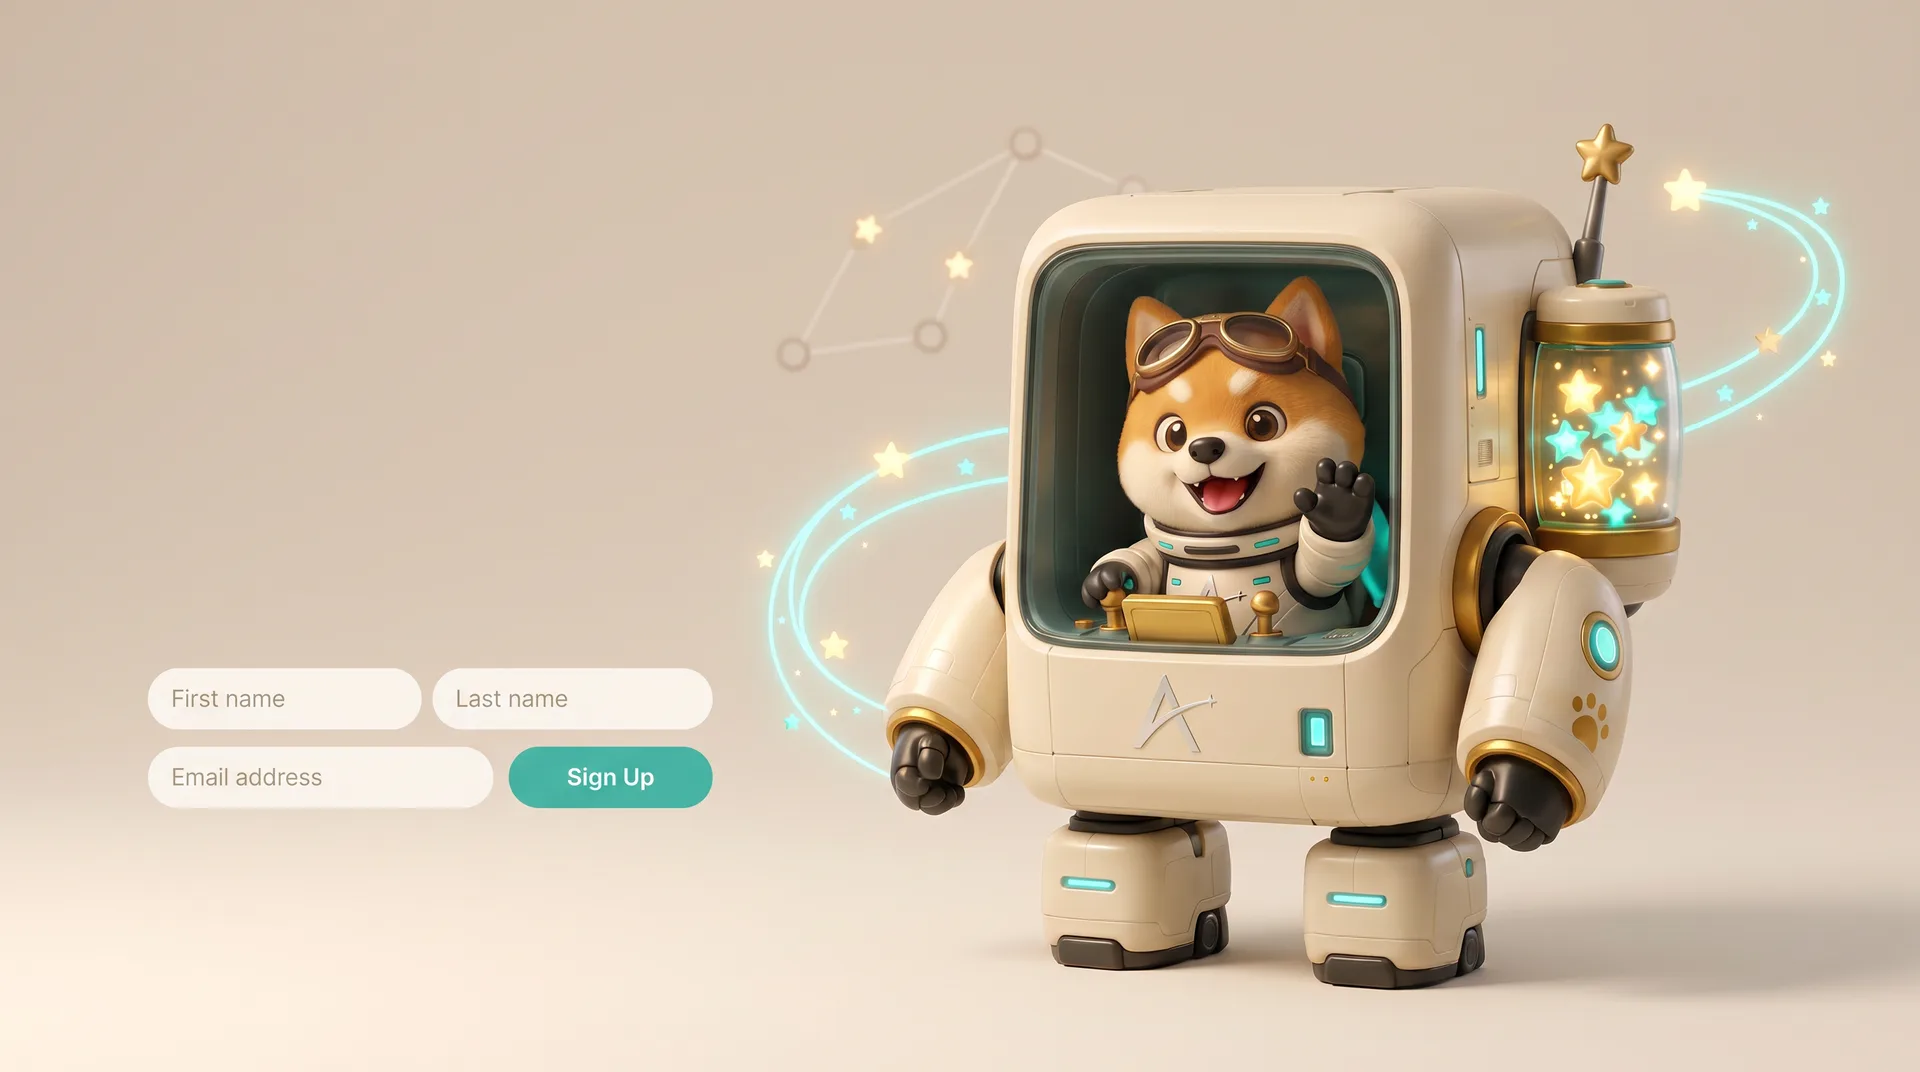
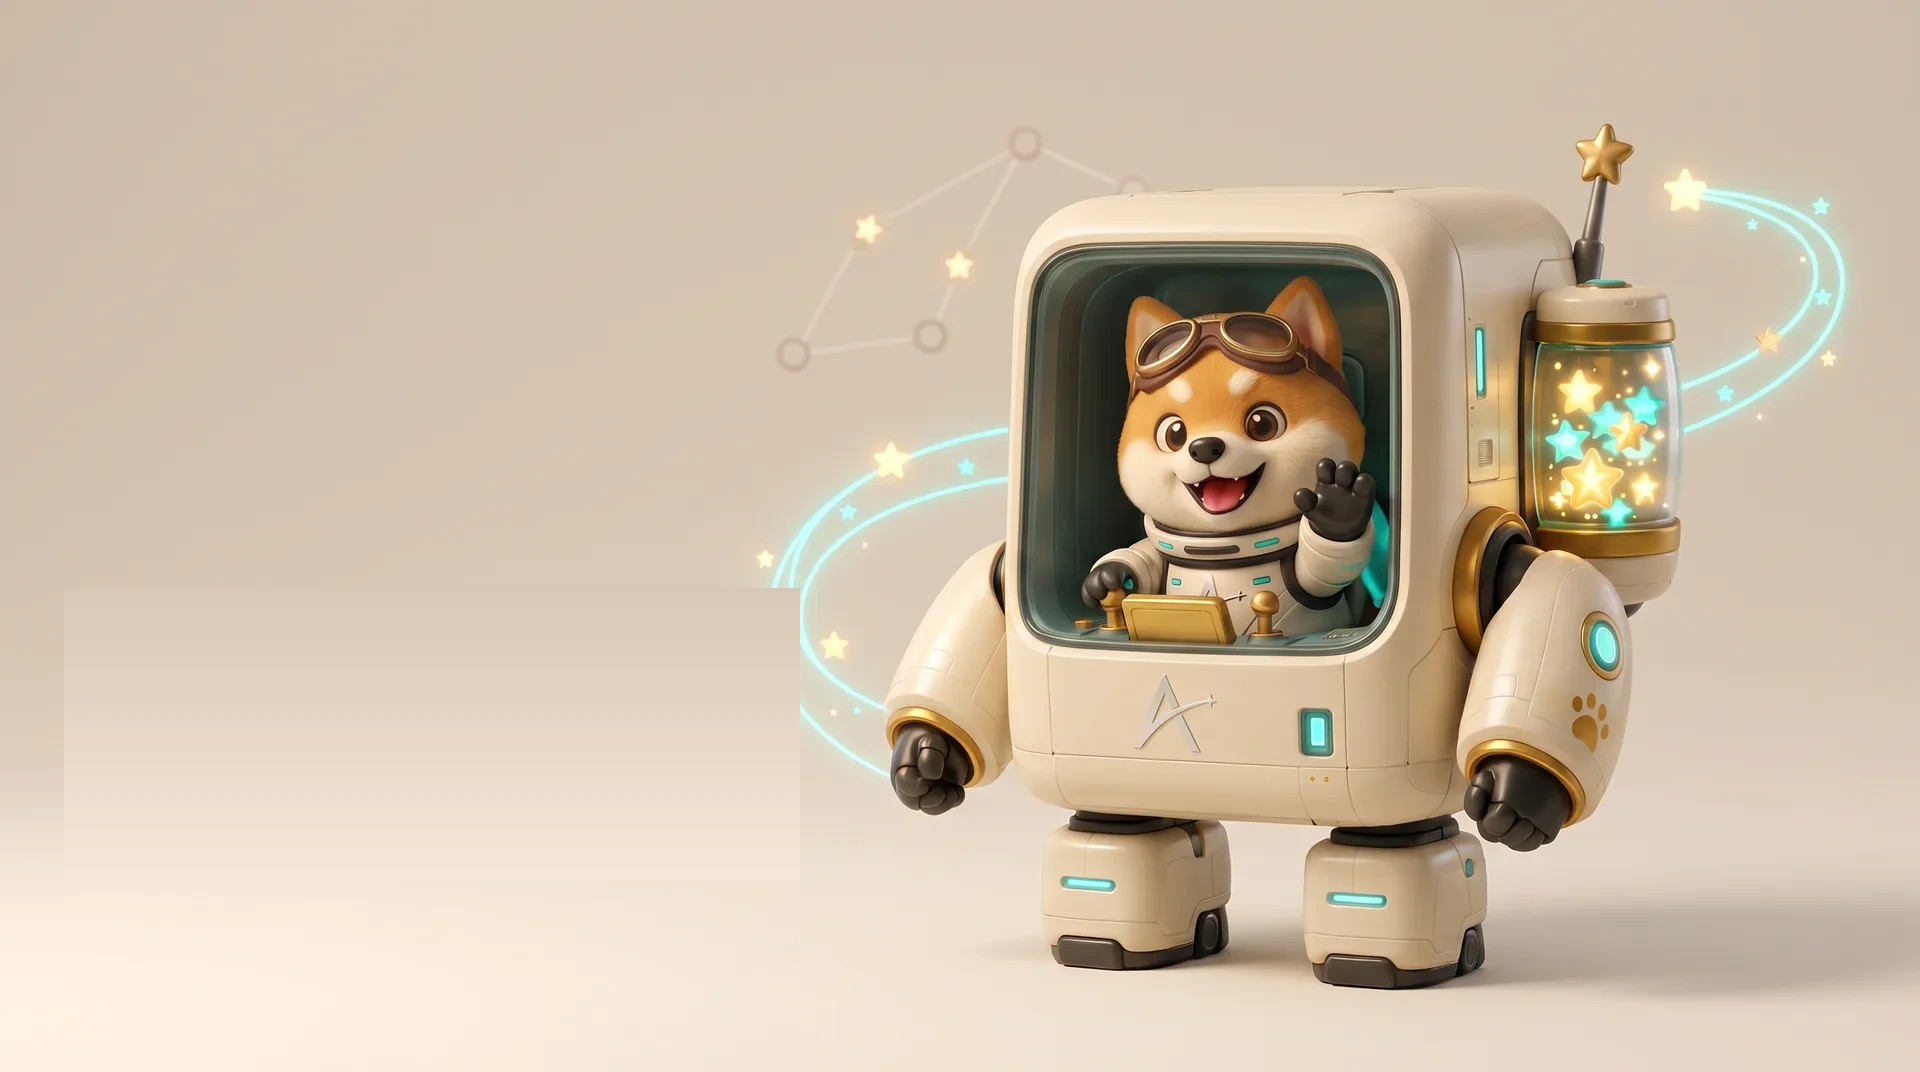
fix(landing): fold fable review — scope mobile hero, erase fake form, trim preload
- story.css/StoryStage: the mobile hero rules (.story-video / .story-copy--center
  / .story-wash-left) were unscoped and collaterally restyled FinalCTA (which
  reuses those classes) into a broken top-anchored + un-scrimmed layout on phones.
  Scope them under a new .story-hero class so only the hero is affected.
- cta.webp: the artwork had a FAKE 'First name / Last name / Sign Up' form baked
  into the left (the 'ghost form' seen earlier). Painted it out with the ivory
  backdrop — it collided with the 'no simulated product' trust spine now that the
  still is FinalCTA's permanent backdrop. Mech + composition untouched.
- Beat0Layer: idle video preload='metadata' (was 'auto') — don't fetch 3MB that
  reduced-motion users (and everyone pre-walk-end) never play.

Changed region(s): [[0.0625, 0.6157, 0.375, 0.7696], [0.375, 0.5541, 0.4375, 0.6157], [0.4062, 0.6465, 0.4375, 0.6772]]

diff --git a/frontend/components/story/story.css b/frontend/components/story/story.css
@@ -267,15 +267,17 @@
   /* Hero on phones: a full-bleed 16:9 clip center-crops Aster (he lives in the
      right third) clean out of frame. Instead, lift the copy to the top and sit
      the character in a full-width band below, cover-cropped to him — always
-     visible, never overlapping the text, so no scrim is needed up top. */
-  .story-copy--center { top: 5rem; transform: none; }
-  .story .story-video {
+     visible, never overlapping the text, so no scrim is needed up top.
+     SCOPED to .story-hero: FinalCTA reuses .story-video / .story-copy--center /
+     .story-wash-left and must keep its own centered, scrimmed desktop layout. */
+  .story-hero .story-copy--center { top: 5rem; transform: none; }
+  .story-hero .story-video {
     top: auto;
     bottom: 0;
     height: 50%;
     object-position: 88% bottom;
   }
-  .story-wash-left { display: none; }
+  .story-hero .story-wash-left { display: none; }
 }
 
 /* nav links (repointed to the open beta, 2026-08-03) */

diff --git a/frontend/components/story/stage/StoryStage.tsx b/frontend/components/story/stage/StoryStage.tsx
@@ -28,7 +28,7 @@ export default function StoryStage() {
   return (
     <main className="story">
       {/* ---- HERO: Aster walks in and idles. No metaphor transition. ---- */}
-      <section className="relative h-[100dvh] min-h-[640px] overflow-hidden bg-[color:var(--story-ivory)]">
+      <section className="story-hero relative h-[100dvh] min-h-[640px] overflow-hidden bg-[color:var(--story-ivory)]">
         <Beat0Layer />
         <div className="story-wash-left" />
 

diff --git a/frontend/components/story/stage/Beat0Layer.tsx b/frontend/components/story/stage/Beat0Layer.tsx
@@ -48,7 +48,7 @@ export default function Beat0Layer() {
         muted
         playsInline
         loop
-        preload="auto"
+        preload="metadata"
         style={{ opacity: walkDone ? 1 : 0, transition: 'opacity 0.35s ease' }}
       />
     </div>
